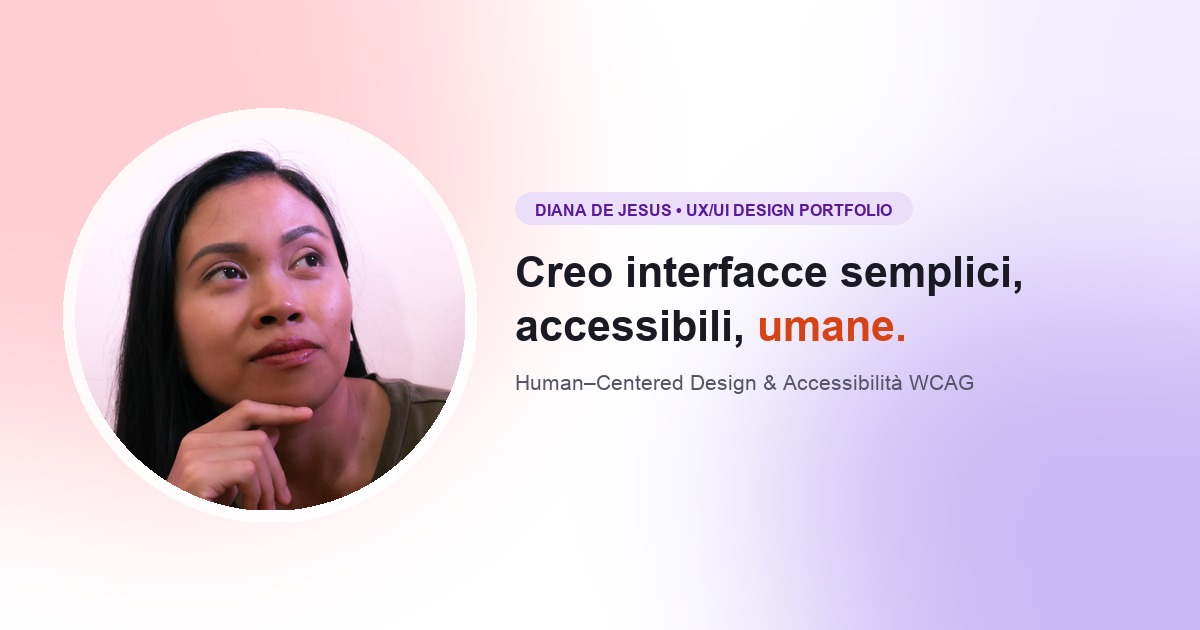
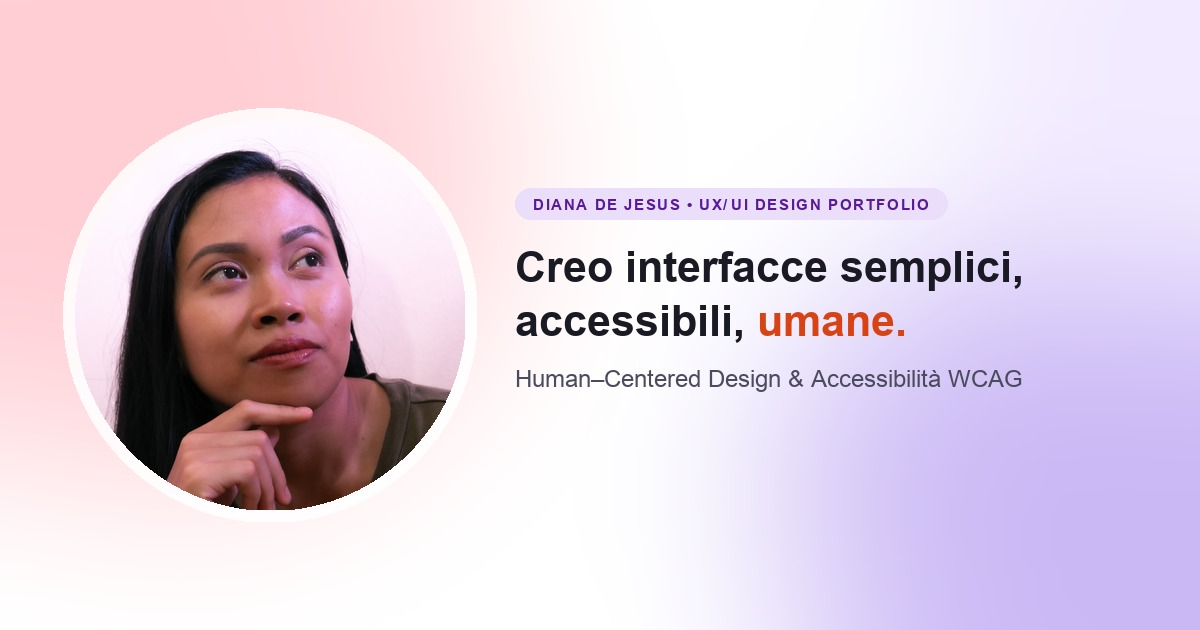
style(og): enlarge subtitle and increase pill tracking, bump cache buster to v=2.2

diff --git a/en/index.html b/en/index.html
@@ -25,7 +25,7 @@
   <meta property="og:url" content="https://dianamariedjesus.github.io/en/">
   <meta property="og:title" content="Diana de Jesus | UX/UI Design Portfolio">
   <meta property="og:description" content="Creating accessible experiences for real people. Empathy first, then aesthetics, because inclusive design is a responsibility.">
-  <meta property="og:image" content="https://dianamariedjesus.github.io/assets/img/og-image-en.jpg?v=2.1">
+  <meta property="og:image" content="https://dianamariedjesus.github.io/assets/img/og-image-en.jpg?v=2.2">
   <meta property="og:image:width" content="1200">
   <meta property="og:image:height" content="630">
   <meta property="og:image:type" content="image/jpeg">
@@ -34,7 +34,7 @@
   <meta name="twitter:card" content="summary_large_image">
   <meta name="twitter:title" content="Diana de Jesus | UX/UI Design Portfolio">
   <meta name="twitter:description" content="Creating accessible experiences for real people. Empathy first, then aesthetics, because inclusive design is a responsibility.">
-  <meta name="twitter:image" content="https://dianamariedjesus.github.io/assets/img/og-image-en.jpg?v=2.1">
+  <meta name="twitter:image" content="https://dianamariedjesus.github.io/assets/img/og-image-en.jpg?v=2.2">
 
   <!-- Base Navbar & Footer CSS -->
   <link rel="stylesheet" href="../assets/css/homepage.css?v=15.3">

diff --git a/index.html b/index.html
@@ -25,7 +25,7 @@
   <meta property="og:url" content="https://dianamariedjesus.github.io/">
   <meta property="og:title" content="Diana de Jesus | UX/UI Design Portfolio">
   <meta property="og:description" content="Creo esperienze accessibili per persone reali. Prima l'empatia e poi l'estetica, perché il design inclusivo è una responsabilità.">
-  <meta property="og:image" content="https://dianamariedjesus.github.io/assets/img/og-image.jpg?v=2.1">
+  <meta property="og:image" content="https://dianamariedjesus.github.io/assets/img/og-image.jpg?v=2.2">
   <meta property="og:image:width" content="1200">
   <meta property="og:image:height" content="630">
   <meta property="og:image:type" content="image/jpeg">
@@ -34,7 +34,7 @@
   <meta name="twitter:card" content="summary_large_image">
   <meta name="twitter:title" content="Diana de Jesus | UX/UI Design Portfolio">
   <meta name="twitter:description" content="Creo esperienze accessibili per persone reali. Prima l'empatia e poi l'estetica, perché il design inclusivo è una responsabilità.">
-  <meta name="twitter:image" content="https://dianamariedjesus.github.io/assets/img/og-image.jpg?v=2.1">
+  <meta name="twitter:image" content="https://dianamariedjesus.github.io/assets/img/og-image.jpg?v=2.2">
 
   <!-- Base Navbar & Footer CSS -->
   <link rel="stylesheet" href="assets/css/homepage.css?v=15.3">
